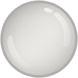
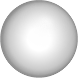
colorku temp

diff --git a/src/sudoku/ColorKuImage.java b/src/sudoku/ColorKuImage.java
@@ -5,6 +5,7 @@
 package sudoku;
 
 import java.awt.Color;
+import java.awt.Graphics2D;
 import java.awt.image.BufferedImage;
 import java.awt.image.WritableRaster;
 import java.io.IOException;
@@ -65,6 +66,8 @@ public class ColorKuImage extends BufferedImage {
         if (sizeR > IMG_MAX) {
             sizeR = IMG_MAX;
         }
+        // TODO
+        System.out.println("create colorku icon " + sizeR);
         // pattern already loaded?
         if (lastOverlay == null || (lastOverlay != null && lastOverlay.getWidth() != sizeR)) {
             // not loaded -> do it
@@ -77,6 +80,14 @@ public class ColorKuImage extends BufferedImage {
             }
         }
 
+        //TODO
+        if (sizeR == 54 || sizeR == 78) {
+            Graphics2D g2 = createGraphics();
+            g2.setColor(color);
+            g2.fillOval(0, 0, sizeR, sizeR);
+            g2.drawImage(lastOverlay, 0, 0, null);
+            return;
+        }
         // create overlay image in the right size
         WritableRaster src = lastOverlay.getRaster();
         int[] srcPixel = new int[4];
